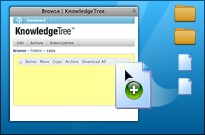
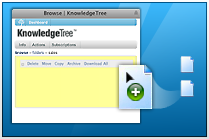
Changes on the No documents in folder message
Committed by: Tohir Solomons

diff --git a/resources/css/newui/browseView.css b/resources/css/newui/browseView.css
@@ -35,8 +35,10 @@
 .page .notification table td.info div { text-align: center; }
 .page .notification table td.info div a { background: transparent url("../../graphics/newui/midbarbkg.png") !important; height: 39px; line-height: 39px; display: inline-block; text-decoration: none; border: none !important; }
 .page .notification table td.info div a span { padding: 0 10px 0 40px; display: inline-block; }
+.page .notification table td.info div a img.leftimg { background: #eee; float: left; }
+.page .notification table td.info div a img.rightimg { background: #eee; float: right; }
 .page .notification table td.info div a span.uploadButton { background: transparent url("../../graphics/newui/midbar_upload.png") 10px 0 no-repeat !important; }
-.page .notification table td.info div a span.createdocButton { background: transparent url("../../graphics/newui/midbar_addfolder.png") 10px 0 no-repeat !important; }
+.page .notification table td.info div a span.createdocButton { background: transparent url("../../graphics/newui/midbar_document_add.png") 10px 0 no-repeat !important; }
 
 .doc.browseView { position: relative; }
 .doc.browseView .debug * { border: 1px solid transparent; }

diff --git a/scripts/scss/browseView.scss b/scripts/scss/browseView.scss
@@ -434,12 +434,22 @@ $folderHighlightColorHover:darken($folderHighlightColor,8%);
 							display: inline-block;
 						}
 						
+						img.leftimg {
+							background: #eee;
+							float: left;
+						}
+						
+						img.rightimg {
+							background: #eee;
+							float: right;
+						}
+						
 						span.uploadButton {
 							background: transparent url('../../graphics/newui/midbar_upload.png') 10px 0  no-repeat !important;
 						}
 						
 						span.createdocButton {
-							background: transparent url('../../graphics/newui/midbar_addfolder.png') 10px 0  no-repeat !important;
+							background: transparent url('../../graphics/newui/midbar_document_add.png') 10px 0  no-repeat !important;
 						}
 					}
 				}

diff --git a/resources/js/newui/newUIFunctionality.js b/resources/js/newui/newUIFunctionality.js
@@ -37,6 +37,10 @@ jQuery(document).ready(function() {
 			containerClass:'',
 		});
 		kt.lib.setFooter();
+		
+		
+		$('td.info a').prepend('<img class="leftimg" src="resources/graphics/newui/midbarleft.png" />');
+		$('td.info a').prepend('<img class="rightimg" src="resources/graphics/newui/midbarright.png" />');
 	});
 })(jQuery);
 
